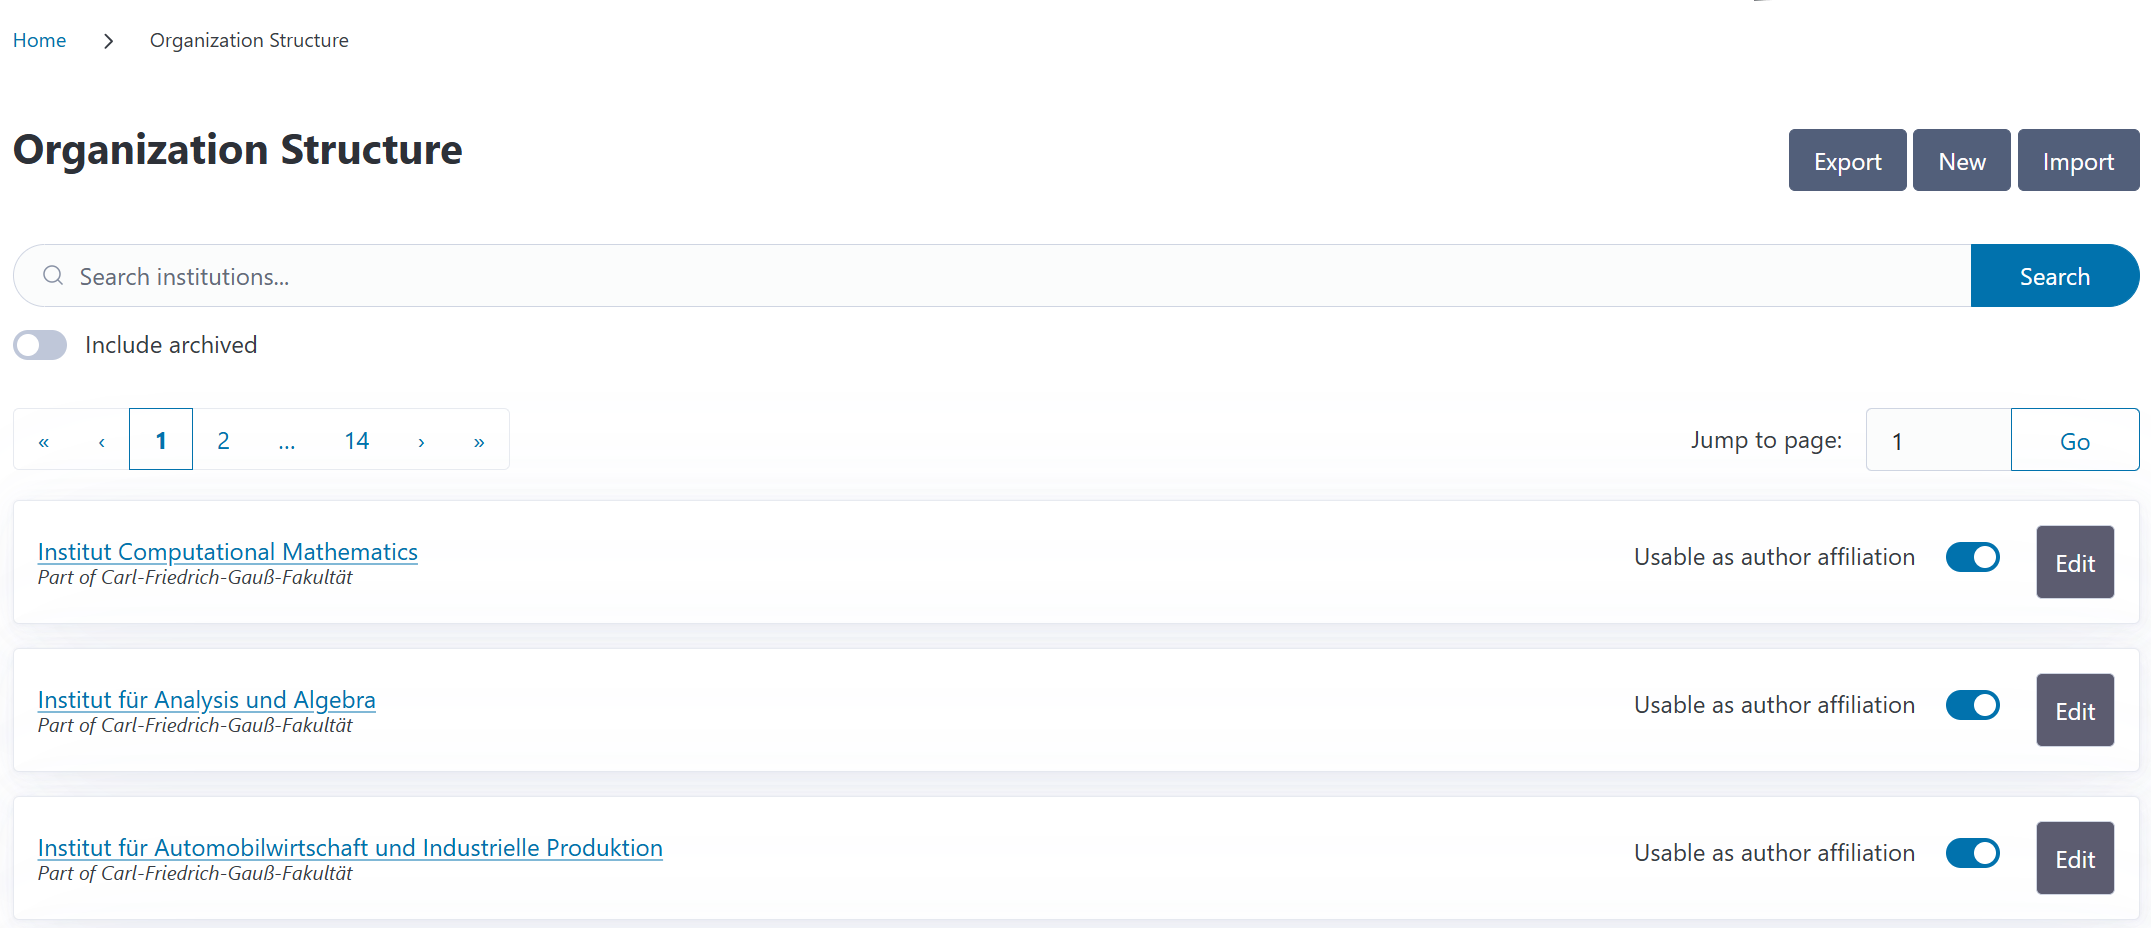
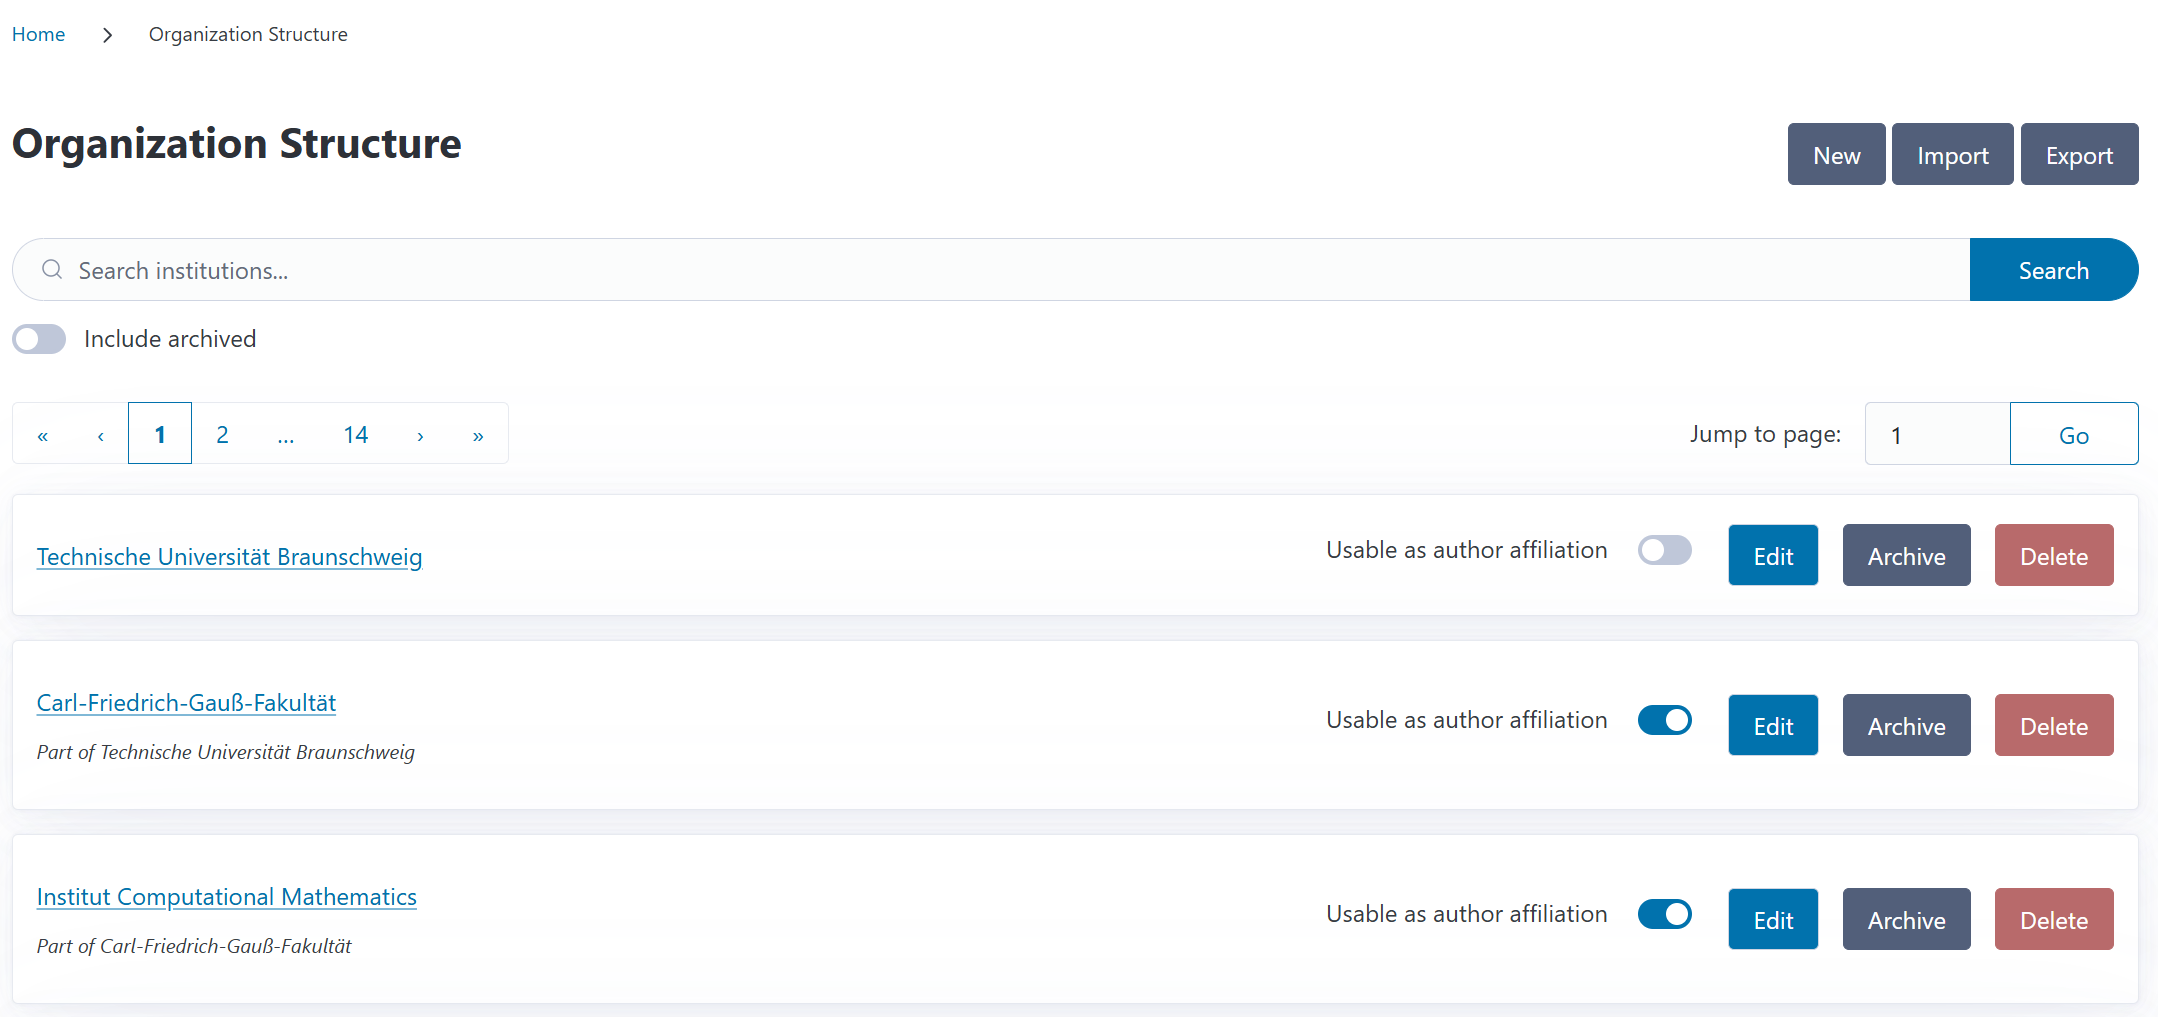
docs(institution/docs): updated the institution docs about detail page, archiving, restoring and deleting
#158

diff --git a/docs/users/features/institutions.md b/docs/users/features/institutions.md
@@ -15,6 +15,22 @@ You can search for institutions by name using the search box at the top of the p
 
 ![](/_static/img/institutions_list_view.png)
 
+## Viewing Institution Details
+
+Each institution has a dedicated detail page that shows comprehensive information about the institution and its relationships. To access the detail page, click on the institution's name from the Organization Structure overview.
+
+The detail page displays:
+
+- **Basic Information**: Institution name, internal ID, parent institution, and archived status
+- **Identifiers**: All ROR, ISNI, and Ringgold identifiers associated with the institution
+- **Relationships**: 
+  - Child institutions (sub-organizations within this institution)
+  - Funding requests with authors affiliated with this institution
+  - Invoices funded by this institution's funding sources
+- **Action Buttons**: Edit, Archive, Restore, or Delete buttons depending on the institution's current state
+
+![](/_static/img/institutions_detail.png)
+
 ## Understanding the "Usable as author affiliation" Toggle
 
 Each institution has a toggle switch labeled **"Usable as author affiliation"**. This setting controls whether an institution appears in dropdown menus when you're adding author affiliations to publications in [funding requests](fundingrequests.md).
@@ -252,9 +268,139 @@ The exported CSV file:
 You can export institutions, modify the CSV file (e.g., update names, add identifiers, change hierarchies), and then re-import the file. CODA will use the internal_id column to reliably match and update existing institutions.
 ```
 
-## What's Next?
+## Archiving Institutions
 
-We're working on enhancements to make institution management easier by enabling deletion of e.g. erroneously created institutions. 
+When an institution is no longer active but you want to preserve its historical data, you can archive it instead of deleting it. Archived institutions:
+
+- Remain in the database with all their relationships intact
+- Are hidden from most selection dropdowns (e.g., author affiliations, parent institution selectors)
+- Can still be viewed and searched when "Include archived" is enabled
+- Can be restored later if needed
+- Cannot be deleted while archived
+
+### How to Archive an Institution
+
+To archive an institution:
+
+1. Navigate to the institution's detail page or find it in the list view
+2. Click the **Archive** button
+3. In the modal that appears, choose one of three archiving options:
+
+**Option 1: Archive without successor**
+- The institution and all its child institutions are archived
+- Use this when an organizational unit is discontinued without a replacement
+
+**Option 2: Create new successor institution**
+- CODA creates a new active institution to replace the archived one
+- Child institutions are moved to the new successor
+- The original institution is archived
+- Useful when an organizational unit is restructured or renamed
+
+**Option 3: Select existing successor**
+- Choose an existing active institution to inherit the children
+- The archived institution's child institutions are transferred to the selected successor
+- Useful when merging organizational units or when a department moves under a different parent
+
+```{admonition} Important
+If the institution you're archiving is set as your **home institution** in global preferences, you must select or create a successor. CODA requires a home institution to be active at all times.
+```
+
+### What Happens When You Archive?
+
+When an institution is archived:
+
+- **Timestamp**: The `archived_at` field is set to the current date and time
+- **Visibility**: The institution disappears from active selection lists but remains searchable with "Include archived" enabled
+- **Child Institutions**: Behavior depends on the archiving option chosen (see above)
+- **Historical Data**: All existing relationships (funding requests, invoices, author affiliations) remain intact
+- **Future Use**: The institution can no longer be selected for new author affiliations or as a parent for new institutions
+
+## Restoring Archived Institutions
+
+If you need to reactivate an archived institution, you can restore it. This might be necessary if:
+
+- An organizational unit is reactivated after a temporary closure
+- The institution was archived by mistake
+- Organizational structure changes require bringing back a previously archived unit
+
+### How to Restore an Institution
+
+To restore an archived institution:
+
+1. Enable "Include archived" on the Organization Structure overview page to see archived institutions
+2. Navigate to the archived institution's detail page or find it in the list view
+3. Click the **Restore** button
+4. In the modal that appears, choose a restore option:
+
+**Option 1: Restore without children**
+- Only the selected institution is restored
+- Archived child institutions remain archived
+- Useful when you want to reactivate a specific organizational unit but not its entire structure
+
+**Option 2: Restore with children**
+- The selected institution and all its archived child institutions are restored
+- The entire organizational tree is reactivated
+- Useful when restoring a complete organizational hierarchy
+
+### Parent Selection During Restore
+
+If the archived institution's parent is also archived (or was never set), CODA will show a parent selector in the restore modal. You can:
+
+- Select a different active institution as the new parent
+- Leave it blank to restore the institution at the top level
+
+If the institution had a parent that is still active, that parent will be automatically selected by default. If the institution's parent was also archived but has an active parent (grandparent), the grandparent will be pre-selected for convenience.
+
+```{admonition} Tip
+When restoring an institution whose parent was also archived, CODA automatically suggests the grandparent institution as the new parent. This helps maintain logical organizational hierarchies.
+```
+
+## Deleting Institutions
+
+CODA allows you to permanently delete institutions that are no longer needed and have no dependencies. This is useful for cleaning up:
+
+- Erroneously created institutions
+- Test data
+- Duplicate entries
+
+### When Can You Delete?
+
+You can only delete an institution if **all** of the following conditions are met:
+
+- The institution is **not archived** (you must restore it first if needed)
+- The institution has **no child institutions**
+- The institution has **no institutional identifiers** (ROR, ISNI, Ringgold)
+- The institution has **no active funding sources** being used in invoices
+- The institution is **not set as the home institution** in global preferences
+
+### How to Delete
+
+To delete an eligible institution:
+
+1. Ensure the institution meets all deletion criteria (see above)
+2. Navigate to the institution's detail page or find it in the list view
+3. Click the **Delete** button
+4. A modal will appear showing:
+   - Confirmation message if deletion is allowed
+   - List of blocking reasons if deletion is not allowed
+5. If allowed, click **Delete** to permanently remove the institution
+
+```{admonition} Warning
+Deletion is permanent and cannot be undone. If you're unsure, consider archiving the institution instead. Archived institutions preserve all historical data and can be restored later if needed.
+```
+
+### Understanding Blocking Reasons
+
+If you cannot delete an institution, the deletion modal will explain why. Common blocking reasons include:
+
+- **Child institutions**: The institution has sub-organizations. Archive or reassign children first.
+- **Identifier(s)/link(s)**: The institution has ROR, ISNI, or Ringgold identifiers. Remove these first if you still want to delete.
+- **Active funding source(s)**: The institution has funding sources currently used in invoice positions. This means invoices are funded by this institution.
+- **Set as home institution**: The institution is configured as your default home institution in global preferences. Set a different home institution first.
+
+```{admonition} Archived Children
+When viewing an archived institution's detail page, you can see its archived child institutions in the "Child Institutions" section. These are marked with a red "Archived" badge for easy identification.
+``` 
 
 
 
